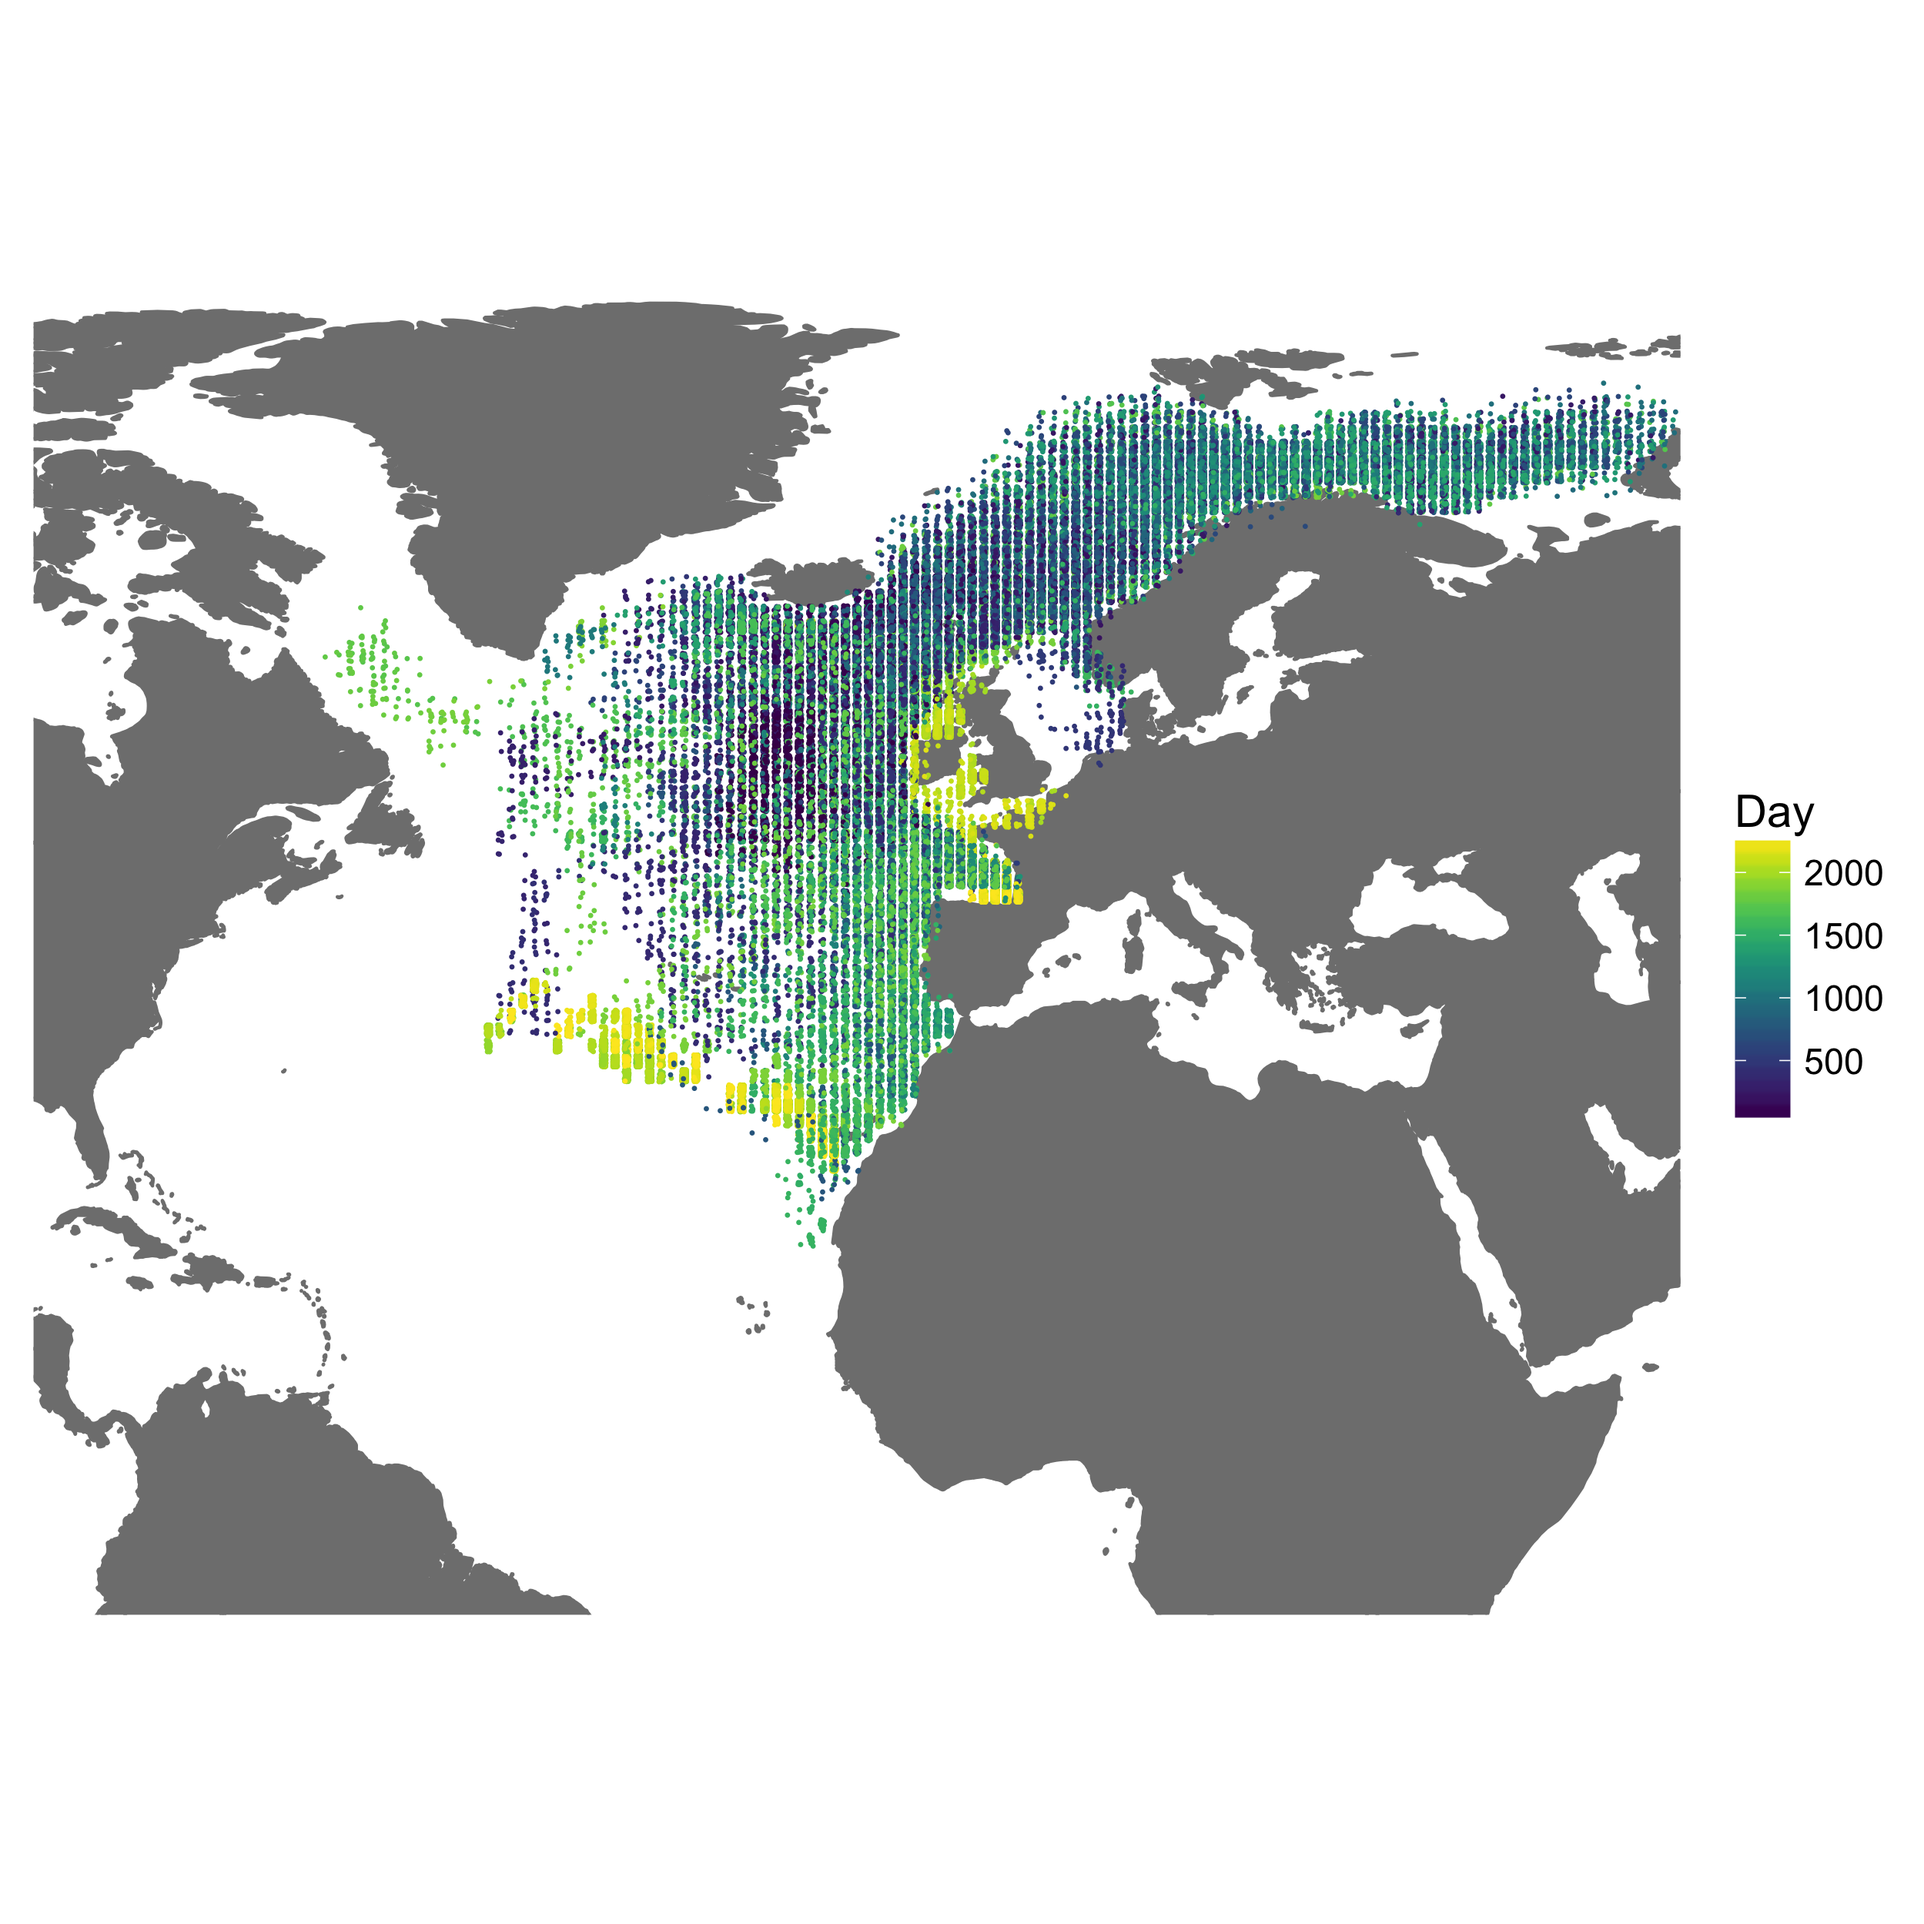
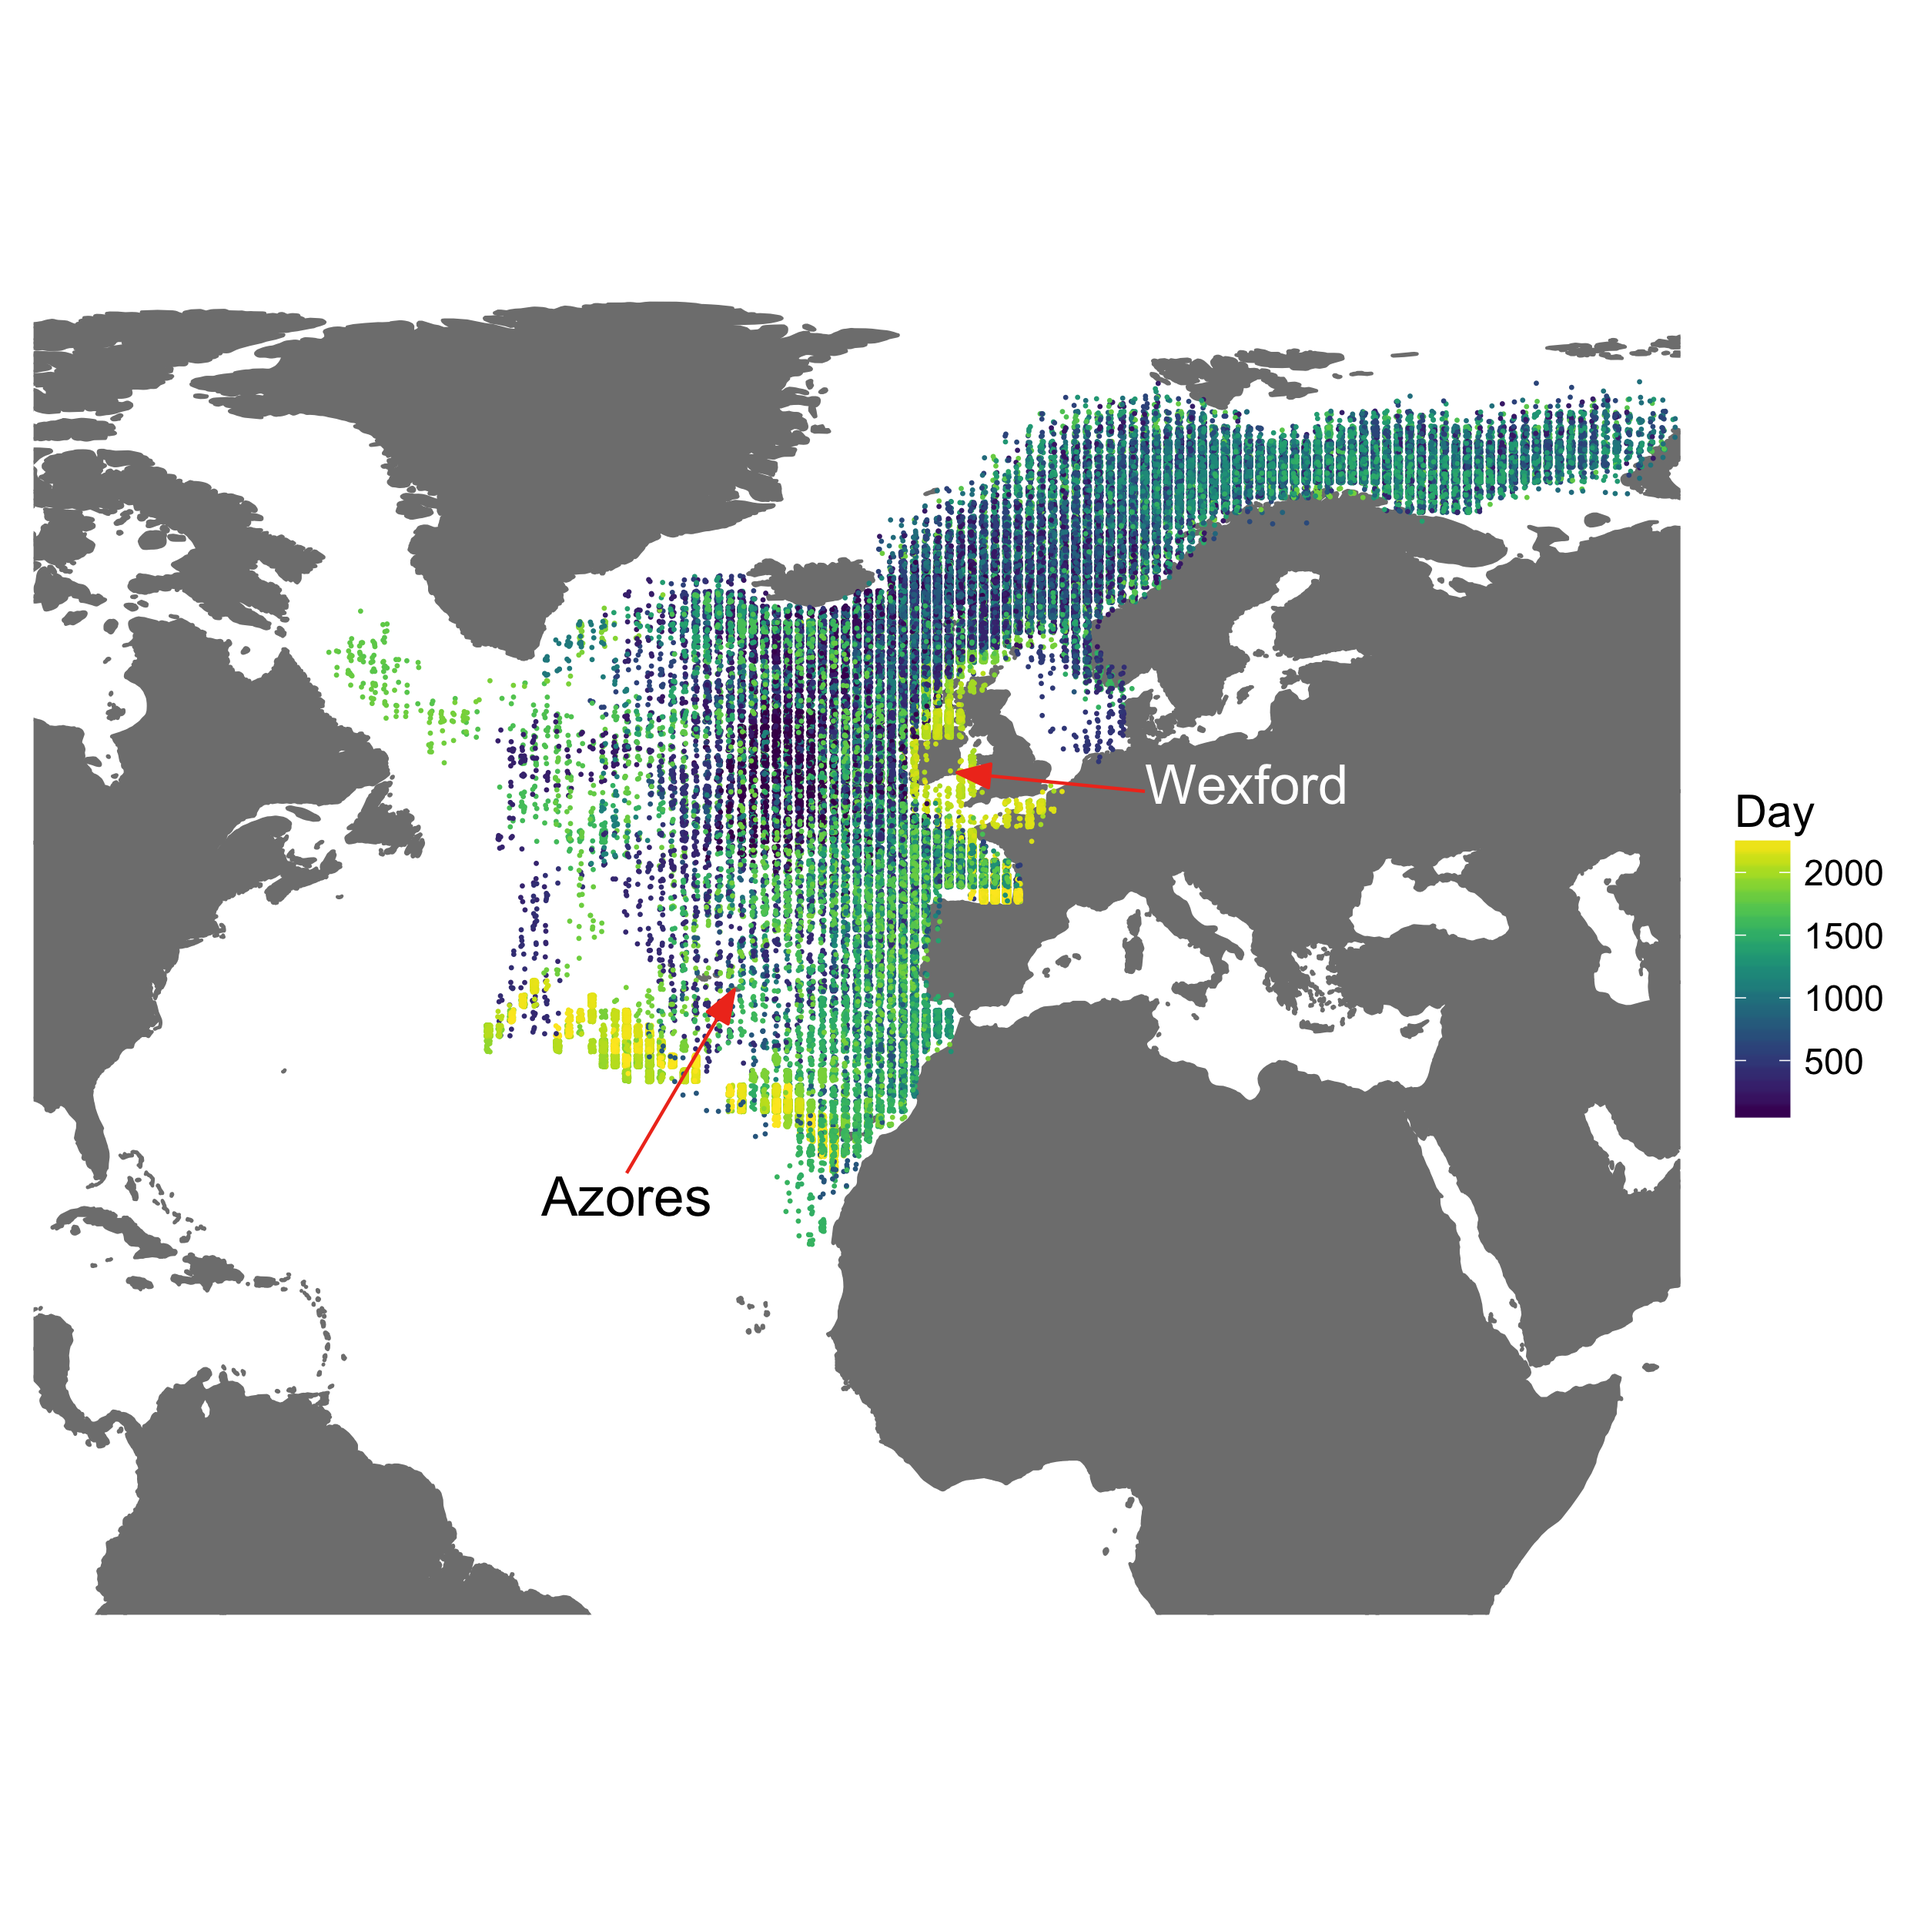
updated figure legends where i could
saved correct version of figure 2 with arrows.

Changed region(s): [[0.1873, 0.1873, 0.8739, 0.6242], [0.2809, 0.593, 0.3745, 0.6555], [0.593, 0.4058, 0.6867, 0.437]]

diff --git a/manuscript/blue-whale-ms.tex b/manuscript/blue-whale-ms.tex
@@ -13,6 +13,16 @@
 \pagenumbering{arabic}    
 \linespread{1.66}
 
+
+% -------------------------------------------------------------------------------------------------------
+% some custom commands
+
+% Add support for highlighting
+\usepackage{color}
+\newcommand{\hilight}[1]{\colorbox{yellow}{#1}}
+
+% -------------------------------------------------------------------------------------------------------
+
 % Title page information
 \title{Reconstructing the last known movements of one of Nature's giants}
 % 90 characters max
@@ -56,7 +66,7 @@ Animal tissues housed in museum collections provide biochemical records of behav
 Here we combine stable isotope analyses of baleen with novel agent-based simulation models, to reconstruct movements over the last six years of the life of an iconic blue whale (\textit{Balaenoptera musculus}) that stranded off Ireland in 1891 and is now on display at the Natural History Museum, London (NHM). 
 We identify two distinct phases in the whale's behaviour: repeated annual north-south migrations in sub-Arctic waters, and residency in subtropical waters. 
 Subtropical residency is associated with isotopic signatures consistent with pregnancy and lactation in the year before the whale’s death. 
-These results supply the first quantitative multi-yeat records of historical migrations in individual blue whales, and suggest that blue whale residency and movement patterns in the North Atlantic have remained similar for hundreds of years, despite changing human pressures in the region. 
+These results supply the first quantitative multi-year records of historical migrations in individual blue whales, and suggest that blue whale residency and movement patterns in the North Atlantic have remained similar for hundreds of years, despite changing human pressures in the region. 
 Historic tissue collections can provide unique insight into individual-level movement behaviours associated with changing climatic, ecological conditions and human-induced pressures, and reveal aspects of life history. 
 Combining biochemical tracers with simulation modelling unlocks the information recorded in these irreplaceable archives.}
 
@@ -92,7 +102,7 @@ There is also no covariance between $\delta^{13}$C and $\delta^{15}$N values in 
   \centering
   \includegraphics[width = \linewidth]{figures/Figure-1-raw-dC-dN-data.png}
   \label{fig1}
-  \caption{One panel figure}% Can you add these?
+  \caption{Variation in $\delta^{13}$C (black circles, left y-axis) and $\delta^{15}$N (grey circles, right x-axis) longitudinally through the baleen plate (n = 77 samples from a single baleen plate for both isotopes) of the NHM blue whale exhibits strong annual periodicity and cross-correlation (\hilight{Figures S1 and S2}) in both isotopes as well as a change in the mean and magnitude of the cycles during 1890 (approximately at sample 30cm). Approximate relationship to years assuming a growth rate of 13.5 cm y$^{-1}$ is shown on the upper x-axis, and year boundaries are indicated by vertical dotted grey lines.}
 \end{figure}
 
 
@@ -105,7 +115,7 @@ We then compare simulated profiles (Figs. \ref{fig2} and \ref{fig3}) with the me
   \centering
   \includegraphics[width = \linewidth]{figures/Figure-2-migratory-model-full-map.png}
   \label{fig2}
-  \caption{One panel figure}% Can you add these?
+  \caption{Simulated tracks from the migratory movement model (2250 days per each of 50 replicates) with simulated day indicated by colour illustrating the residency period from Ireland to the Barents Sea followed by a migratory period and year spent near the Azores (as indicated by an arrow) and/or Canary Islands before returning north prior to stranding in Wexford, Ireland 1891 (as indicated by an arrow). }% Can you add these?
 \end{figure}
 
 % figure 3
@@ -113,7 +123,7 @@ We then compare simulated profiles (Figs. \ref{fig2} and \ref{fig3}) with the me
   \centering
   \includegraphics[width = \linewidth]{figures/Figure-3-migratory-model-d13C.png}
   \label{fig3}
-  \caption{One panel figure}% Can you add these?
+  \caption{The corresponding $\delta^{13}$C data from these simulated movements correlate with the empirical data from the Baleen: across the 50 simulations, the correlation coefficient between z-score transformations of empirical and time-matched simulation values had a mean of 0.48 (sd = 0.2), 49 of them were positive,  and 39 of the 50 Pearson correlation tests had a p-value less than the Bonferroni corrected p = 0.05 / 50 = 0.001. The initiation of the southward migration around June 1890 is indicated by the vertical broken line. The standard deviation of the empirical data have been rescaled by a factor of 3 so as to better visualise the correlation since as a consumer, the whale is expected to integrate and attenuate the fluctuations in its diet, and the end points of the simulations and empirical data have been aligned to coincide.}
 \end{figure}
  
 During behavioural phase one, the whale is foraging at high northern latitudes, likely off the coast of Norway. 

diff --git a/manuscript/blue-whale-supplementary.tex b/manuscript/blue-whale-supplementary.tex
@@ -13,8 +13,20 @@
 \pagenumbering{arabic}    
 \linespread{1.66}
 
+
+
+% -------------------------------------------------------------------------------------------------------
+% some custom commands
+
+% Add support for highlighting
+\usepackage{color}
+\newcommand{\hilight}[1]{\colorbox{yellow}{#1}}
+
+% figure numbering override
 \renewcommand*{\thefigure}{S\arabic{figure}} % make Fig S1 not Fig 1
 \renewcommand*{\thetable}{S\arabic{table}} % make Table S1 not Table 1
+
+% -------------------------------------------------------------------------------------------------------
 
 % Title page information
 \title{Supplementary Information from:\\
@@ -55,7 +67,7 @@ A distinct change in the isotopic pattern along the baleen plate occurs at aroun
 \begin{figure}[!htbp]
   \centering
   \includegraphics[width = \linewidth]{figures/Figure-S1-periodograms.png}
-  \caption{Fourier analysis of $delta^{15}$N (A,B) and $delta^{13}$C (C,D) values of the full (A,C) and behavioral phase one only (B,D) components of the baleen plate. Inset values are the two highest frequency spectral densities (in cm). Note the baleen plate is 80cm long. Periodic fluctuation with a distance of 13.5cm along the baleen plate is consistently recovered, but is weaker or absent behavioral phase two} % check legend
+  \caption{Fourier analysis of $delta^{15}$N (A,B) and $delta^{13}$C (C,D) values of the full (A,C) and behavioral phase one only (B,D) components of the baleen plate. Inset values are the two highest frequency spectral densities (in cm). Note the baleen plate is 80cm long. Periodic fluctuation with a distance of 13.5cm along the baleen plate is consistently recovered, but is weaker or absent behavioural phase two} % check legend
   \label{figs1}
 \end{figure}
  
@@ -83,7 +95,7 @@ Incorporation of carbon and nitrogen with isotopic ratios consistent with southe
 \begin{figure}[!htbp]
   \centering
   \includegraphics[width = \linewidth]{figures/Figure-S3-plankton-d13C-map.png}
-  \caption{$delta^{13}$C POM values} % add legend
+  \caption{Isoscape map of the $delta^{13}$C values from POM used as simulated food in the movement model.}
   \label{figs3} 
 \end{figure}
 
@@ -100,7 +112,7 @@ In temperate latitudes around the British Isles, seasonal dynamic cycles are pre
   \begin{figure}[!htbp]
     \centering
       \includegraphics[width=\linewidth]{figures/Figure-S4-facet-wrap-d13C.png}
-      \caption{Daily $\delta^{13}$C POM values in regions occupied by 30 simulated blue whales foraging over a two year cycle.} % check legend
+      \caption{Daily $\delta^{13}$C POM values in regions occupied by 30 simulated blue whales foraging over a two year cycle. \hilight{OR} Alternative $\delta^{13}$C series arising from resident-only movement models restricting region to Norway, Ireland, Canaries and the Mid Atlantic ridge as labelled over a simulated 2-year period with daily resolution and 30 replicate simulations per region.  } % check legend
       \label{figs4}
   \end{figure}
  
